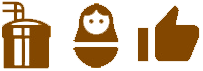
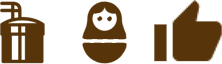
Sprite edited
New sprite for features.section was added;

diff --git a/css/grid.css b/css/grid.css
@@ -210,20 +210,20 @@ body > section {
 .features-list-item h3::before {
 	position: absolute;
 	display: inline-block;
-	width: 70px;
+	width: 74px;
 	height: 70px;
 	top: 0; left: 0;
 	content: "";
 	background: url("../img/features-icons.png") no-repeat;
-	background-size: 210px 70px;
+	background-size: 222px 64px;
 }
 
 .features-list-item:nth-child(2) h3::before {
-	background-position-x: -70px;
+	background-position-x: -80px;
 }
 
 .features-list-item:nth-child(3) h3::before {
-	background-position-x: -140px;
+	background-position-x: -155px;
 }
 
 .features-list-item p {

diff --git a/index.html b/index.html
@@ -9,7 +9,7 @@
   </head>
   <body>
 
-  	<section class="page-header">
+  	<header class="page-header">
       <div class="content-wrap">
         <h1 class="invisible">Кваст - крафтовый квас!</h1>
         <nav class="main-menu">
@@ -25,7 +25,7 @@
     		
     		<b>Крафтовый квас<br>всему голова!</b>
       </div>
-  	</section>
+  	</header>
 
   	<section class="new">
       <div class="content-wrap">
